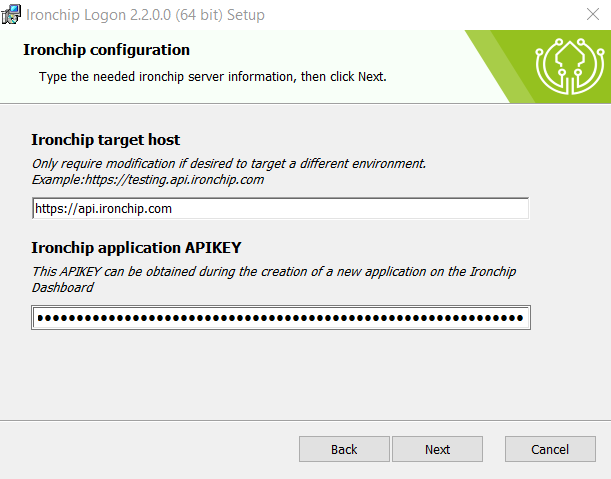
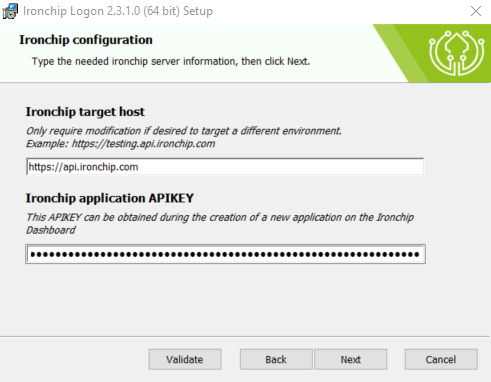
Updated README

diff --git a/README.md b/README.md
@@ -47,7 +47,7 @@ Logon is a custom Windows credential provider designed by [Ironchip](https://www
 Our simplified access can enhance user experience, making it more convenient and user-friendly. This is especially valuable in a work or personal environment where you're required to log in to various systems multiple times a day.
 
 **Extra Layer:**
-MFA adds an extra layer of protection, requiring multiple forms of authentication, such as a password and a one-time code or push notification. 
+MFA adds an extra layer of protection, requiring multiple forms of authentication, such as a password and a one-time code, sms code or push notification. 
 
 **Improved Compliance:**
 MFA helps organizations meet compliance requirements and security standards by implementing robust authentication methods.
@@ -86,14 +86,16 @@ To install Ironchip Windows Logon into your device:
    <p align="center">
      <img alt="Installer first view" src="./assets/first-view.png" width="350"/>
    </p>
+
  2) Read and accept the Terms of Use.
     <p align="center">
      <img alt="Term os Use" src="./assets/accept-terms-of-use.png" width="350"/>
    </p>
+
  3) Select the features you want to enable.
 
-   - **Ironchip Windows Logon** for secure login.
-   - *(Optional)* **Offline** for no-internet login.
+    - **Ironchip Windows Logon** MFA for secure login.
+    - *(Optional)* **Offline** uses OTP codes for MFA. Required to authenticate without internet connection.
 
    <p align="center">
      <img alt="Select features" src="./assets/feature-selection-view.png" width="350"/>
@@ -105,9 +107,15 @@ To install Ironchip Windows Logon into your device:
      <img alt="Configuration view" src="./assets/configuration-view.png" width="350"/>
    </p>
 
-  > I case your Ironchip company is in another environment, make sure to update the host in order to target the expected endpoints (*e.g https://testing.api.ironchip.com* is the host for the testing environment).
+  > In case your Ironchip company is in another environment, make sure to update the host in order to target the expected endpoints (*e.g https://testing.api.ironchip.com* is the host for the testing environment).
 
- 5) On the next step you can enable additional features.
+ 5) *(Optional)* Click the `Validate` button to check your configuration. You’ll need an internet connection for this step. If you’re installing offline, you can skip it. If everything is set up correctly, you’ll see a message like the one below.
+   
+   <p align="center">
+     <img alt="Additional Configuration view" src="./assets/validated-configuration.png" width="350"/>
+   </p>
+
+ 6) On the next step you can enable additional features.
     
     - **Remember user:** Enable during the windows login a feature that allows to remember password for future logins.
    
@@ -115,7 +123,7 @@ To install Ironchip Windows Logon into your device:
      <img alt="Additional Configuration view" src="./assets/additional-configuration-view.png" width="350"/>
    </p>
 
- 6) On this view, you can select in which scenarios you want Ironchip credential provider to be applied.
+ 7) On this view, you can select in which scenarios you want Ironchip credential provider to be applied.
   
     #### Scenarios
       - **Logon:** Scenario to access the workstation either using logon or unlock.
@@ -133,7 +141,7 @@ To install Ironchip Windows Logon into your device:
      <img alt="Additional Configuration view" src="./assets/scenarios-view.png" width="350"/>
    </p>
 
-  7) Finally, click the Install button to complete the setup.
+  8) Finally, click the Install button to complete the setup.
 
    <p align="center">
      <img alt="Install view" src="./assets/install-view.png" width="350"/>
@@ -224,11 +232,29 @@ The installation of Ironchip Windows Logon using commands (cmd) with the program
      <img alt="Dashboard applications navigation" src="./assets/dashboard-applications.png" width="350"/>
    </p>
 
-3) Click on the **Options** button and select **Add Access** and a new modal will be displayed. Fill the fields in each step.
+3) Search for the application you want to give access. 
+
+4) Click on the **Options** button and select **Add Access**. A new modal should show up.
+
+5) **Step 1:** Select the group you want to apply the access condition.
    <p align="center">
-     <img alt="Dashboard new application modal" src="./assets/add-access.png" width="350"/>
+     <img alt="Dashboard new access modal" src="./assets/group-selection-modal.png" width="350"/>
    </p>
-> As a username, setup the same value the user will use to login into the Windows device.
+  > To create new groups go to `Directory > Group`
+
+6) **Step 2:** By default, the Ironchip credential provider handles all logins using the SAMAccount format (e.g., `Domain\User` or `Machine\User`). taking that into account, just add the according template.
+
+   <p align="center">
+     <img alt="Dashboard new access modal" src="./assets/access-template-modal.png" width="350"/>
+   </p>
+
+  > [How to allow users to login using other formats.](https://github.com/Ironchip-Security/Ironchip-Windows-Logon?tab=readme-ov-file#enforce-external-username)
+
+7) **Step 3:** Select the access condition you want to apply to this access.
+
+   <p align="center">
+     <img alt="Dashboard new application modal" src="./assets/select-access-condition-modal.png" width="350"/>
+   </p>
 
 ## Additional configurations
 
@@ -305,8 +331,8 @@ With this setup, the authorization to the Ironchip backend still uses the SAMAcc
      <img alt="Configure alias" src="./assets/configure-alias.png" width="550"/>
    </p>
 
-## Compatibility with Older Versions
-Starting from `v2.2.0`, communications have been migrated from *Schannel* to *OpenSSL*, improving compatibility with older Windows versions (primarily targeting Windows 8, though not limited to it).
+## Open SSL
+Starting from `v2.2.0`, communications have been migrated from *Schannel* to *OpenSSL*, improving compatibility with older Windows versions (primarily targeting Windows 8, though not limited to it) while ensuring TLS 1.3.
 
 However, since our backend uses an SSL certificate signed by **Let’s Encrypt**, and Let’s Encrypt’s root certificate was **not included in Windows default trusted CA store until Windows 10**, users running earlier versions of Windows will need to manually add the Let’s Encrypt root certificate to their trusted certificate authorities.
 
